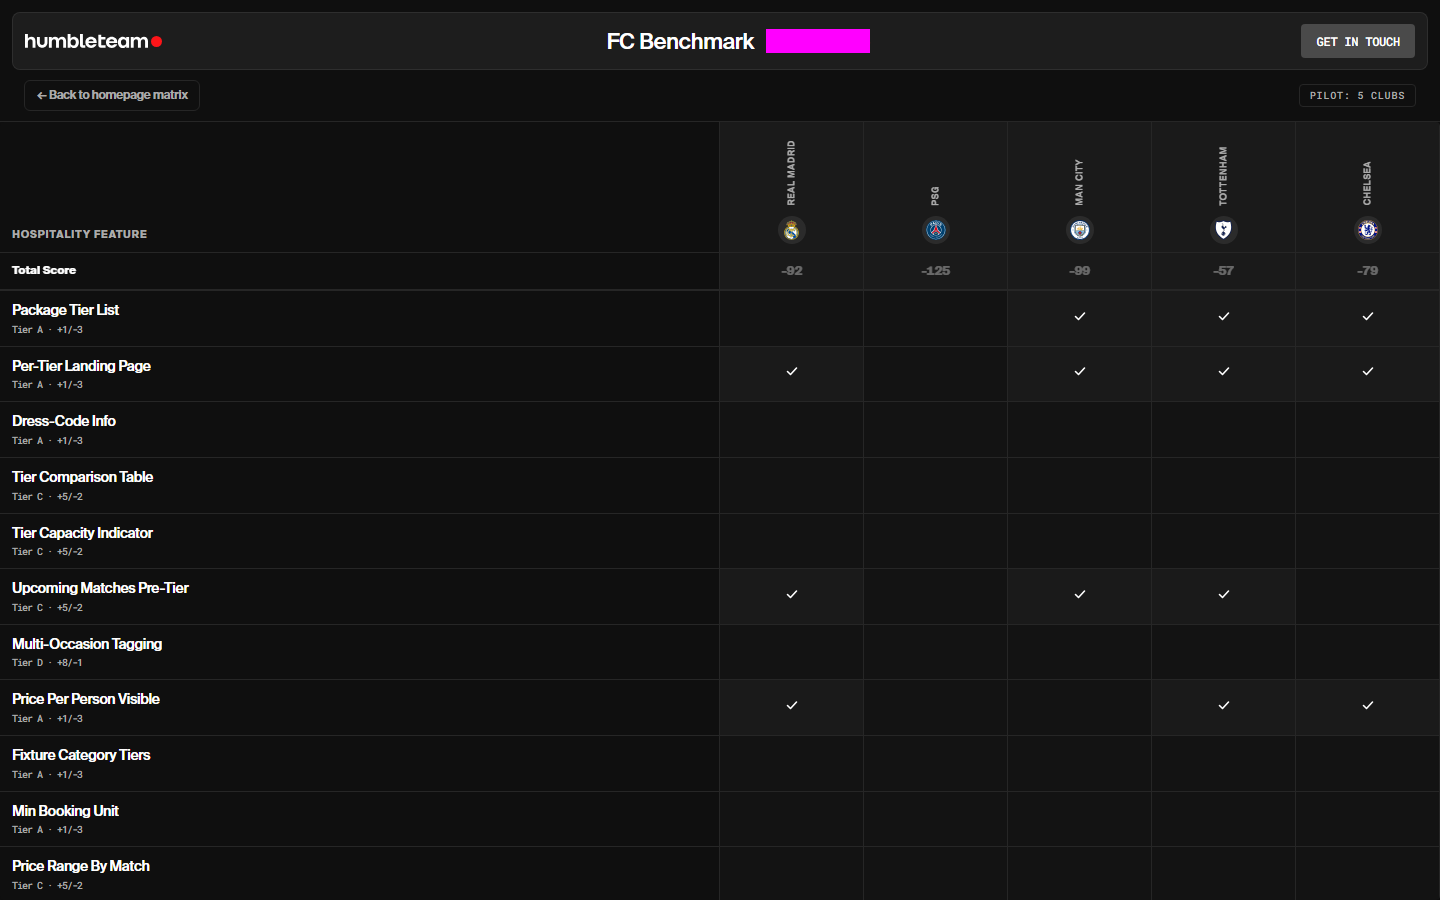
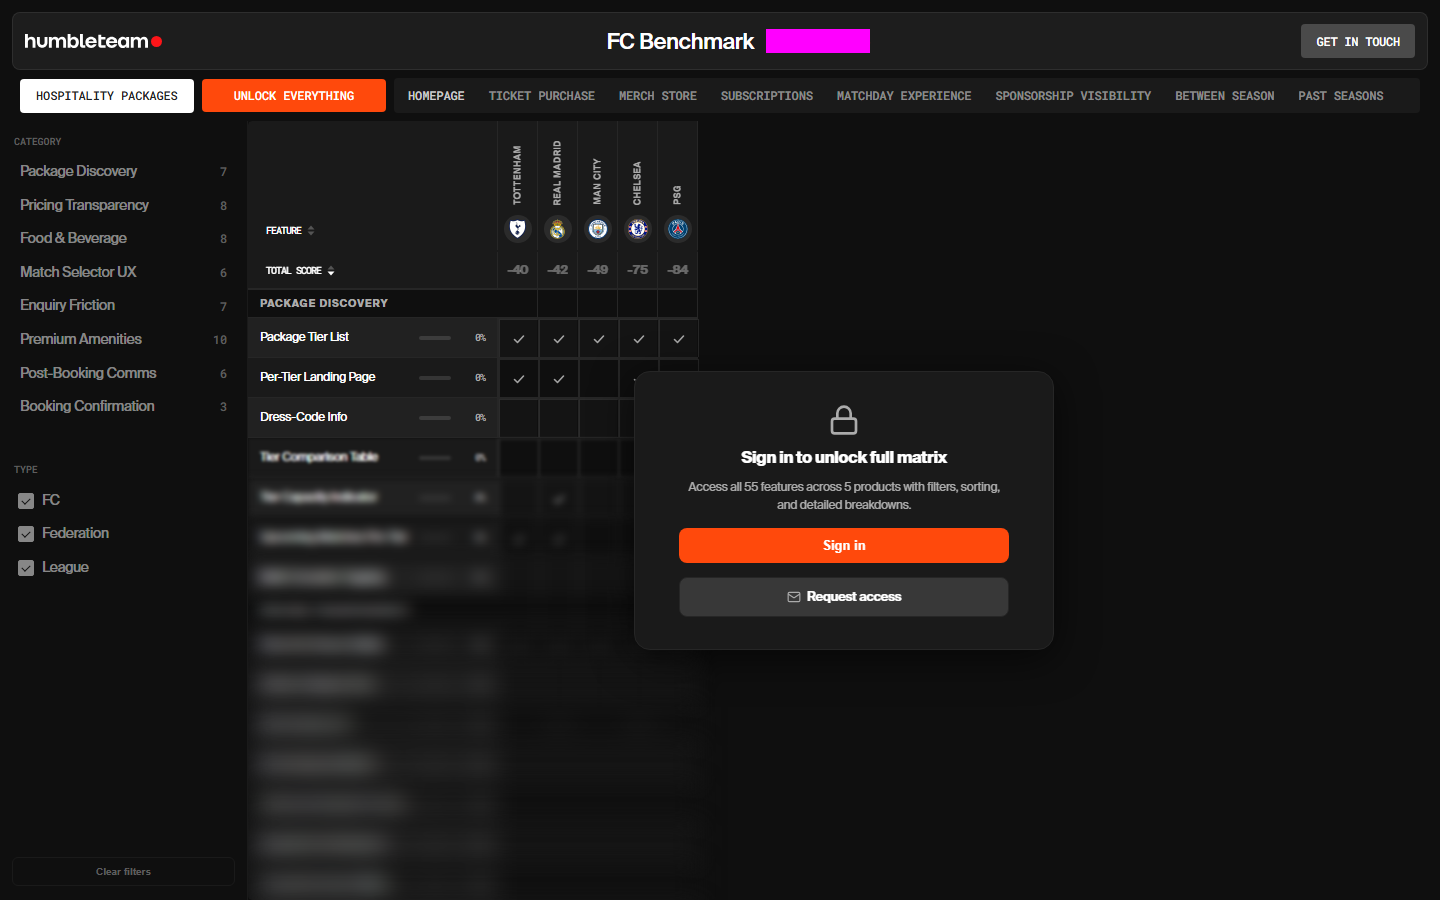
test(02-21): regenerate /hospitality visual baseline + PLAYWRIGHT_BASE_URL override
- Updates tests/visual/hospitality-tab.spec.ts-snapshots/hospitality-1440x900-win32.png
  baseline PNG. Hospitality page now renders the unified MatrixIsland
  shell (HeaderBar + TopNav with hospitality pill active + sidebar
  with 8 categories + 5-col x 55-row matrix). Manual visual review
  confirms intentional change.

- playwright.config.ts now respects PLAYWRIGHT_BASE_URL env var so
  contributors running multiple Next worktrees on different ports can
  still run the visual suite. Defaults to localhost:3000.

Verified pre-existing baseline drift on tests/visual/homepage.spec.ts
and tests/visual/club-page.spec.ts is identical pre/post Plan 02-21
(79991 px diff on homepage at both states) — confirming Plan 02-21
introduced no homepage visual change. Those baselines are out of scope
for this plan; they predate it and need separate baseline-refresh work.

diff --git a/playwright.config.ts b/playwright.config.ts
@@ -10,7 +10,10 @@ export default defineConfig({
   retries: process.env.CI ? 2 : 0,
   reporter: 'list',
   use: {
-    baseURL: 'http://localhost:3000',
+    // Plan 02-21: respect PLAYWRIGHT_BASE_URL when set so contributors
+    // running multiple Next workspaces on different ports can still
+    // run the visual suite without port collisions. Defaults to :3000.
+    baseURL: process.env.PLAYWRIGHT_BASE_URL ?? 'http://localhost:3000',
     colorScheme: 'dark',
     trace: 'retain-on-failure',
   },